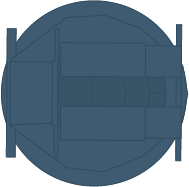
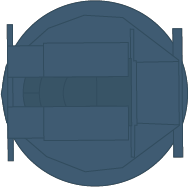
Flip dome image. Update emitters to be more efficient

diff --git a/LSST-app/src/components/Dome/DomePosition/DomePosition.jsx b/LSST-app/src/components/Dome/DomePosition/DomePosition.jsx
@@ -33,13 +33,15 @@ class DomePosition extends Component {
         d3.select("#mount-angle").transition().duration(duration).attr("transform", "translate("+this.props.width/2+","+this.props.height/2+")rotate("+angle+")");
         d3.select("#mount-angle-top").transition().attr("y2", -this.props.height/2+this.props.height/2+this.props.width/2*Math.tan(Math.PI/180*this.cameraFOV/2));
         d3.select("#mount-angle-bot").transition().attr("y2", -this.props.height/2+this.props.height/2-this.props.width/2*Math.tan(Math.PI/180*this.cameraFOV/2));
-
-        
     }
 
     componentDidUpdate(prevProps, prevState){
-        this.setDomeAzimuth(this.props.domeAzimuth);
-        this.setMountAzimuth(this.props.mountAzimuth);
+        window.requestAnimationFrame(
+            () => {
+                this.setDomeAzimuth(this.props.domeAzimuth);
+                this.setMountAzimuth(this.props.mountAzimuth);
+            }
+        );
     }
 
     componentDidMount() {
@@ -55,8 +57,8 @@ class DomePosition extends Component {
                 </div>
                 <svg 
                     className="svg-container"
-                    height={this.props.height}
-                    width={this.props.width}>
+                    height={this.props.height+100}
+                    width={this.props.width+100}>
                     <g id="dome-angle"
                         transform={"translate("+this.props.width/2+","+this.props.height/2+")"}
                         height={this.props.height}

diff --git a/LSST-app/src/components/Dome/DomePosition/DomePosition.css b/LSST-app/src/components/Dome/DomePosition/DomePosition.css
@@ -31,3 +31,7 @@
 .cardinal-points img {
     filter: invert(60%) sepia(100%) hue-rotate(160deg);
 }
+
+.dome-position-container .svg-container {
+    padding: 50px;
+}

diff --git a/LSST-server/emitters/ObservationEmitter.py b/LSST-server/emitters/ObservationEmitter.py
@@ -49,35 +49,36 @@ def start_listening_survey(app, socketio):
     try:
         initial_date = 10000
         date_step = 1000
-        while True:
-            time.sleep(1.510)
-            scode = sal.getNextSample_timeHandler(topicTime)
-            if scode == 0 and topicTime.timestamp != 0:
+        with app.test_request_context('/'):
+            while True:
+                time.sleep(1.510)
+                scode = sal.getSample_timeHandler(topicTime)
+                if scode == 0 and topicTime.timestamp != 0:
 
-                targetId += 1
+                    targetId += 1
 
-                topicTarget.targetId = targetId
-                topicTarget.fieldId  = random.randint(1,100)
-                topicTarget.filter   = filters[random.randrange(len(filters))]
-                topicTarget.ra       = random.randint(-40,40)
-                topicTarget.decl      = random.randint(-60,0)
-                topicTarget.request_time = time.time()-757393245-3
-                # topicTarget.exposure_times = [34,34,34,34,34,34,34,34,34,34]
-                initial_date = initial_date + date_step
-                sal.putSample_target(topicTarget)
+                    topicTarget.targetId = targetId
+                    topicTarget.fieldId  = random.randint(1,100)
+                    topicTarget.filter   = filters[random.randrange(len(filters))]
+                    topicTarget.ra       = random.randint(-40,40)
+                    topicTarget.decl      = random.randint(-60,0)
+                    topicTarget.request_time = time.time()-757393245-3
+                    # topicTarget.exposure_times = [34,34,34,34,34,34,34,34,34,34]
+                    initial_date = initial_date + date_step
+                    sal.putSample_target(topicTarget)
 
-                while True:
-                    scode = sal.getNextSample_observation(topicObservation)
-                    if scode == 0 and topicObservation.targetId != 0:
-                        topicObservation.observation_start_time = topicTarget.request_time
-                        publish(app, socketio, topicObservation)
-                        measCount += 1
-                        visitCount += 1
-                        if topicTarget.targetId == topicObservation.targetId:
-                            syncCount += 1
-                            break
-                        else:
-                            print("UNSYNC targetId=%i observationId=%i" % (topicTarget.targetId, topicObservation.targetId))
+                    while True:
+                        scode = sal.getSample_observation(topicObservation)
+                        if scode == 0 and topicObservation.targetId != 0:
+                            topicObservation.observation_start_time = topicTarget.request_time
+                            publish(app, socketio, topicObservation)
+                            measCount += 1
+                            visitCount += 1
+                            if topicTarget.targetId == topicObservation.targetId:
+                                syncCount += 1
+                                break
+                            else:
+                                print("UNSYNC targetId=%i observationId=%i" % (topicTarget.targetId, topicObservation.targetId))
 
     except KeyboardInterrupt:
         sal.salShutdown()
@@ -86,5 +87,4 @@ def start_listening_survey(app, socketio):
 # Publish data to WS connection
 def publish(app, socketio, topicObservation):
     print('Emitting', [topicObservation.filter, topicObservation.ra, topicObservation.decl, 1, topicObservation.observation_start_time, topicObservation.visit_time])
-    with app.test_request_context('/'):
-        socketio.emit('data', {'fieldID': topicObservation.targetId, 'fieldRA':topicObservation.ra, 'fieldDec':topicObservation.decl, 'filterName':topicObservation.filter, 'count':1, 'request_time':topicObservation.observation_start_time, 'expTime':topicObservation.visit_time})
+    socketio.emit('data', {'fieldID': topicObservation.targetId, 'fieldRA':topicObservation.ra, 'fieldDec':topicObservation.decl, 'filterName':topicObservation.filter, 'count':1, 'request_time':topicObservation.observation_start_time, 'expTime':topicObservation.visit_time})

diff --git a/LSST-server/emitters/Louvers.py b/LSST-server/emitters/Louvers.py
@@ -19,11 +19,12 @@ def start_listening_louvers(app, socketio):
 
     print("SAL listening")
     try:
-        while True:
-            time.sleep(0.3)
-            scodeLouvers = salLouvers.getSample_status(topicLouvers)
-            if scodeLouvers == 0:
-                publish(app, socketio, topicLouvers)
+        with app.test_request_context('/'):
+            while True:
+                time.sleep(1)
+                scodeLouvers = salLouvers.getSample_status(topicLouvers)
+                if scodeLouvers == 0:
+                    publish(app, socketio, topicLouvers)
 
     except KeyboardInterrupt:
         print("SAL shutdown")
@@ -33,11 +34,10 @@ def start_listening_louvers(app, socketio):
 # Publish data to WS connection
 def publish(app, socketio, topicLouvers):
     # print('EmittingLouvers', {'position_actual': topicLouvers.position_actual, 'position_error': topicLouvers.position_error, 'position_cmd': topicLouvers.position_cmd})
-    with app.test_request_context('/'):
-        # socketio.emit('Louvers', {'position_actual': topicLouvers.position_actual, 'position_error': topicLouvers.position_error, 'position_cmd': topicLouvers.position_cmd})        
-        socketio.emit('Louvers', {'position_actual': topicLouvers.position_actual[0:34].tolist(), 'position_error':topicLouvers.position_error[0:34].tolist(), 'position_cmd':topicLouvers.position_cmd[0:34].tolist()}, namespace='/louvers')
-        # for i in range(0,34):
-        # 	louverPos = 'topicLouvers'+str(i)
-        # 	LouversPosErr = 'LouversPosErr'+str(i)
-        # 	LouversCMD = 'LouversCMD'+str(i)
-        # 	socketio.emit('Louvers', {louverPos: topicLouvers.position_actual[i], LouversPosErr:topicLouvers.position_error[i], LouversCMD:topicLouvers.position_cmd[i]})
+    # socketio.emit('Louvers', {'position_actual': topicLouvers.position_actual, 'position_error': topicLouvers.position_error, 'position_cmd': topicLouvers.position_cmd})        
+    socketio.emit('Louvers', {'position_actual': topicLouvers.position_actual[0:34].tolist(), 'position_error':topicLouvers.position_error[0:34].tolist(), 'position_cmd':topicLouvers.position_cmd[0:34].tolist()}, namespace='/louvers')
+    # for i in range(0,34):
+    # 	louverPos = 'topicLouvers'+str(i)
+    # 	LouversPosErr = 'LouversPosErr'+str(i)
+    # 	LouversCMD = 'LouversCMD'+str(i)
+    # 	socketio.emit('Louvers', {louverPos: topicLouvers.position_actual[i], LouversPosErr:topicLouvers.position_error[i], LouversCMD:topicLouvers.position_cmd[i]})

diff --git a/LSST-server/emitters/ServerAlerts.py b/LSST-server/emitters/ServerAlerts.py
@@ -59,11 +59,12 @@ def start_listening_servers(app, socketio):
 
     print("SAL listening server alerts")
     try: 
-        while True:
-            time.sleep(0.1)
-            scodeServers = salServers.getNextSample_ServerStatus(topicServers)
-            if scodeServers == 0:
-                publish(app, socketio, topicServers)
+        with app.test_request_context('/'):
+            while True:
+                time.sleep(1)
+                scodeServers = salServers.getSample_ServerStatus(topicServers)
+                if scodeServers == 0:
+                    publish(app, socketio, topicServers)
 
     except KeyboardInterrupt:
         print("SAL shutdown")
@@ -73,6 +74,5 @@ def start_listening_servers(app, socketio):
 # Publish data to WS connection
 def publish(app, socketio, topicServers):
     # print('EmittingServer', {'server_id': topicServers.Id, 'server_CPU': topicServers.CPU, 'server_disk': topicServers.disk, 'server_power_supply1_1V': topicServers.power_supply1_1V,'server_power_supply3_3V': topicServers.power_supply3_3V,'server_power_supply5V': topicServers.power_supply5V,'server_power_supply12V': topicServers.power_supply12V,'server_temperature': topicServers.temperature })
-    with app.test_request_context('/'):
-        socketio.emit('server_alerts', {'server_id': topicServers.Id, 'server_CPU': topicServers.CPU, 'server_disk': topicServers.disk, 'server_power_supply1_1V': topicServers.power_supply1_1V,'server_power_supply3_3V': topicServers.power_supply3_3V,'server_power_supply5V': topicServers.power_supply5V,'server_power_supply12V': topicServers.power_supply12V,'server_temperature': topicServers.temperature })
+    socketio.emit('server_alerts', {'server_id': topicServers.Id, 'server_CPU': topicServers.CPU, 'server_disk': topicServers.disk, 'server_power_supply1_1V': topicServers.power_supply1_1V,'server_power_supply3_3V': topicServers.power_supply3_3V,'server_power_supply5V': topicServers.power_supply5V,'server_power_supply12V': topicServers.power_supply12V,'server_temperature': topicServers.temperature })
                 

diff --git a/LSST-server/emitters/DomePosition.py b/LSST-server/emitters/DomePosition.py
@@ -25,12 +25,13 @@ def start_listening_dome_position(app, socketio):
 
     print("SAL listening")
     try:
-        while True:
-            time.sleep(0.3)
-            scodeAz = salAz.getSample_status(topicDomeAz)
-            scodeEl = salEl.getSample_status(topicDomeEl)
-            if scodeAz == 0 and scodeEl == 0:
-                publish(app, socketio, topicDomeAz, topicDomeEl)
+        with app.test_request_context('/'):
+            while True:
+                time.sleep(0.3)
+                scodeAz = salAz.getSample_status(topicDomeAz)
+                scodeEl = salEl.getSample_status(topicDomeEl)
+                if scodeAz == 0 and scodeEl == 0:
+                    publish(app, socketio, topicDomeAz, topicDomeEl)
 
     except KeyboardInterrupt:
         print("SAL shutdown")
@@ -40,6 +41,5 @@ def start_listening_dome_position(app, socketio):
     
 # Publish data to WS connection
 def publish(app, socketio, topicDomeAz, topicDomeEl):
-    print('Emitting DomePosition', [topicDomeAz.position_actual, topicDomeAz.position_error, topicDomeAz.position_cmd, topicDomeEl.position_actual, topicDomeEl.position_error, topicDomeEl.position_cmd])
-    with app.test_request_context('/'):
-        socketio.emit('DomePosition', {'DomeAzPos': topicDomeAz.position_actual, 'DomeAzPosErr':topicDomeAz.position_error, 'DomeAzCMD':topicDomeAz.position_cmd, 'DomeElPos': topicDomeEl.position_actual, 'DomeElPosErr':topicDomeEl.position_error, 'DomeElCMD':topicDomeEl.position_cmd}, namespace='/domeposition')
+    # print('Emitting DomePosition', [topicDomeAz.position_actual, topicDomeAz.position_error, topicDomeAz.position_cmd, topicDomeEl.position_actual, topicDomeEl.position_error, topicDomeEl.position_cmd])
+    socketio.emit('DomePosition', {'DomeAzPos': topicDomeAz.position_actual, 'DomeAzPosErr':topicDomeAz.position_error, 'DomeAzCMD':topicDomeAz.position_cmd, 'DomeElPos': topicDomeEl.position_actual, 'DomeElPosErr':topicDomeEl.position_error, 'DomeElCMD':topicDomeEl.position_cmd}, namespace='/domeposition')

diff --git a/LSST-server/emitters/DomeShutter.py b/LSST-server/emitters/DomeShutter.py
@@ -21,14 +21,15 @@ def start_listening_dome_shutter(app, socketio):
 
     print("SAL listening")
     try:
-        while True:
-            time.sleep(0.3)
-            scodeCloseDome = salDome.acceptCommand_CloseShutter(topicCloseShutter)
-            scodeOpenDome = salDome.acceptCommand_OpenShutter(topicOpenShutter)
-            if scodeCloseDome > 0:
-                publish(app, socketio, False)
-            elif scodeOpenDome > 0:
-                publish(app, socketio, True)
+        with app.test_request_context('/'):
+            while True:
+                time.sleep(0.3)
+                scodeCloseDome = salDome.acceptCommand_CloseShutter(topicCloseShutter)
+                scodeOpenDome = salDome.acceptCommand_OpenShutter(topicOpenShutter)
+                if scodeCloseDome > 0:
+                    publish(app, socketio, False)
+                elif scodeOpenDome > 0:
+                    publish(app, socketio, True)
 
     except KeyboardInterrupt:
         print("SAL shutdown")
@@ -38,8 +39,7 @@ def start_listening_dome_shutter(app, socketio):
 # Publish data to WS connection
 def publish(app, socketio, shutter):
     print('Emitting shutter', shutter)
-    with app.test_request_context('/'):
-        if(shutter):
-            socketio.emit('DomeShutter', {'Shutter': 1}, namespace='/domeshutter')#Open
-        else:
-            socketio.emit('DomeShutter', {'Shutter': 0}, namespace='/domeshutter')#Close
+    if(shutter):
+        socketio.emit('DomeShutter', {'Shutter': 1}, namespace='/domeshutter')#Open
+    else:
+        socketio.emit('DomeShutter', {'Shutter': 0}, namespace='/domeshutter')#Close

diff --git a/LSST-server/emitters/Weather.py b/LSST-server/emitters/Weather.py
@@ -17,11 +17,12 @@ def start_listening_weather(app, socketio):
     print("environment_weather subscriber ready")
     print("SAL_environment listening")
     try:
-        while True:
-            time.sleep(1)
-            retval = mgr.getSample_weather(weatherData)
-            if retval==0:
-                publish(app, socketio, weatherData)
+        with app.test_request_context('/'):
+            while True:
+                time.sleep(1)
+                retval = mgr.getSample_weather(weatherData)
+                if retval==0:
+                    publish(app, socketio, weatherData)
 
     except KeyboardInterrupt:
         print("SAL shutdown")
@@ -31,5 +32,4 @@ def start_listening_weather(app, socketio):
 # Publish data to WS connection
 def publish(app, socketio, weatherData):
     print('EmittingWeather', {'ambient_temp': weatherData.ambient_temp, 'humidity':weatherData.humidity, 'pressure':weatherData.pressure})
-    with app.test_request_context('/'):
-        socketio.emit('Weather', {'ambient_temp': weatherData.ambient_temp, 'humidity':weatherData.humidity, 'pressure':weatherData.pressure}, namespace='/weather')
+    socketio.emit('Weather', {'ambient_temp': weatherData.ambient_temp, 'humidity':weatherData.humidity, 'pressure':weatherData.pressure}, namespace='/weather')

diff --git a/LSST-server/emitters/Rotator.py b/LSST-server/emitters/Rotator.py
@@ -19,11 +19,12 @@ def start_listening_rotator(app, socketio):
 
     print("SAL listening")
     try:
-        while True:
-            time.sleep(0.3)
-            scodeRotator = salRotator.getNextSample_Position(topicRotatorPosition)
-            if scodeRotator == 0:
-                publish(app, socketio, topicRotatorPosition)
+        with app.test_request_context('/'):
+            while True:
+                time.sleep(1)
+                scodeRotator = salRotator.getSample_Position(topicRotatorPosition)
+                if scodeRotator == 0:
+                    publish(app, socketio, topicRotatorPosition)
 
     except KeyboardInterrupt:
         print("SAL shutdown")
@@ -33,5 +34,4 @@ def start_listening_rotator(app, socketio):
 # Publish data to WS connection
 def publish(app, socketio, topicRotatorPosition):
     # print('Emitting', [topicRotatorPosition.Calibrated[0]])
-    with app.test_request_context('/'):
-        socketio.emit('Rotator', {'RotatorPosition': topicRotatorPosition.Calibrated[0]}, namespace='/rotator')
+    socketio.emit('Rotator', {'RotatorPosition': topicRotatorPosition.Calibrated[0]}, namespace='/rotator')

diff --git a/LSST-server/server.py b/LSST-server/server.py
@@ -41,14 +41,12 @@ if __name__ == '__main__':
         from emitters.ServerAlerts import start_listening_servers
         from emitters.Weather import start_listening_weather
         eventlet.spawn(start_listening_louvers, app, socketio)
-        eventlet.spawn(start_listening_rotator, app, socketio)
+        # eventlet.spawn(start_listening_rotator, app, socketio)
         eventlet.spawn(start_listening_survey, app, socketio)
         eventlet.spawn(start_listening_dome_shutter, app, socketio)
         eventlet.spawn(start_listening_dome_position, app, socketio)
         eventlet.spawn(start_listening_servers, app, socketio)
         eventlet.spawn(start_listening_weather, app, socketio)
-        # eventlet.spawn(start_listening_fake_alerts,app,socketio)
-        
     else:
         from emitters.ObservationEmitter import start_listening_fake
         from emitters.ServerAlerts import start_listening_fake_alerts
